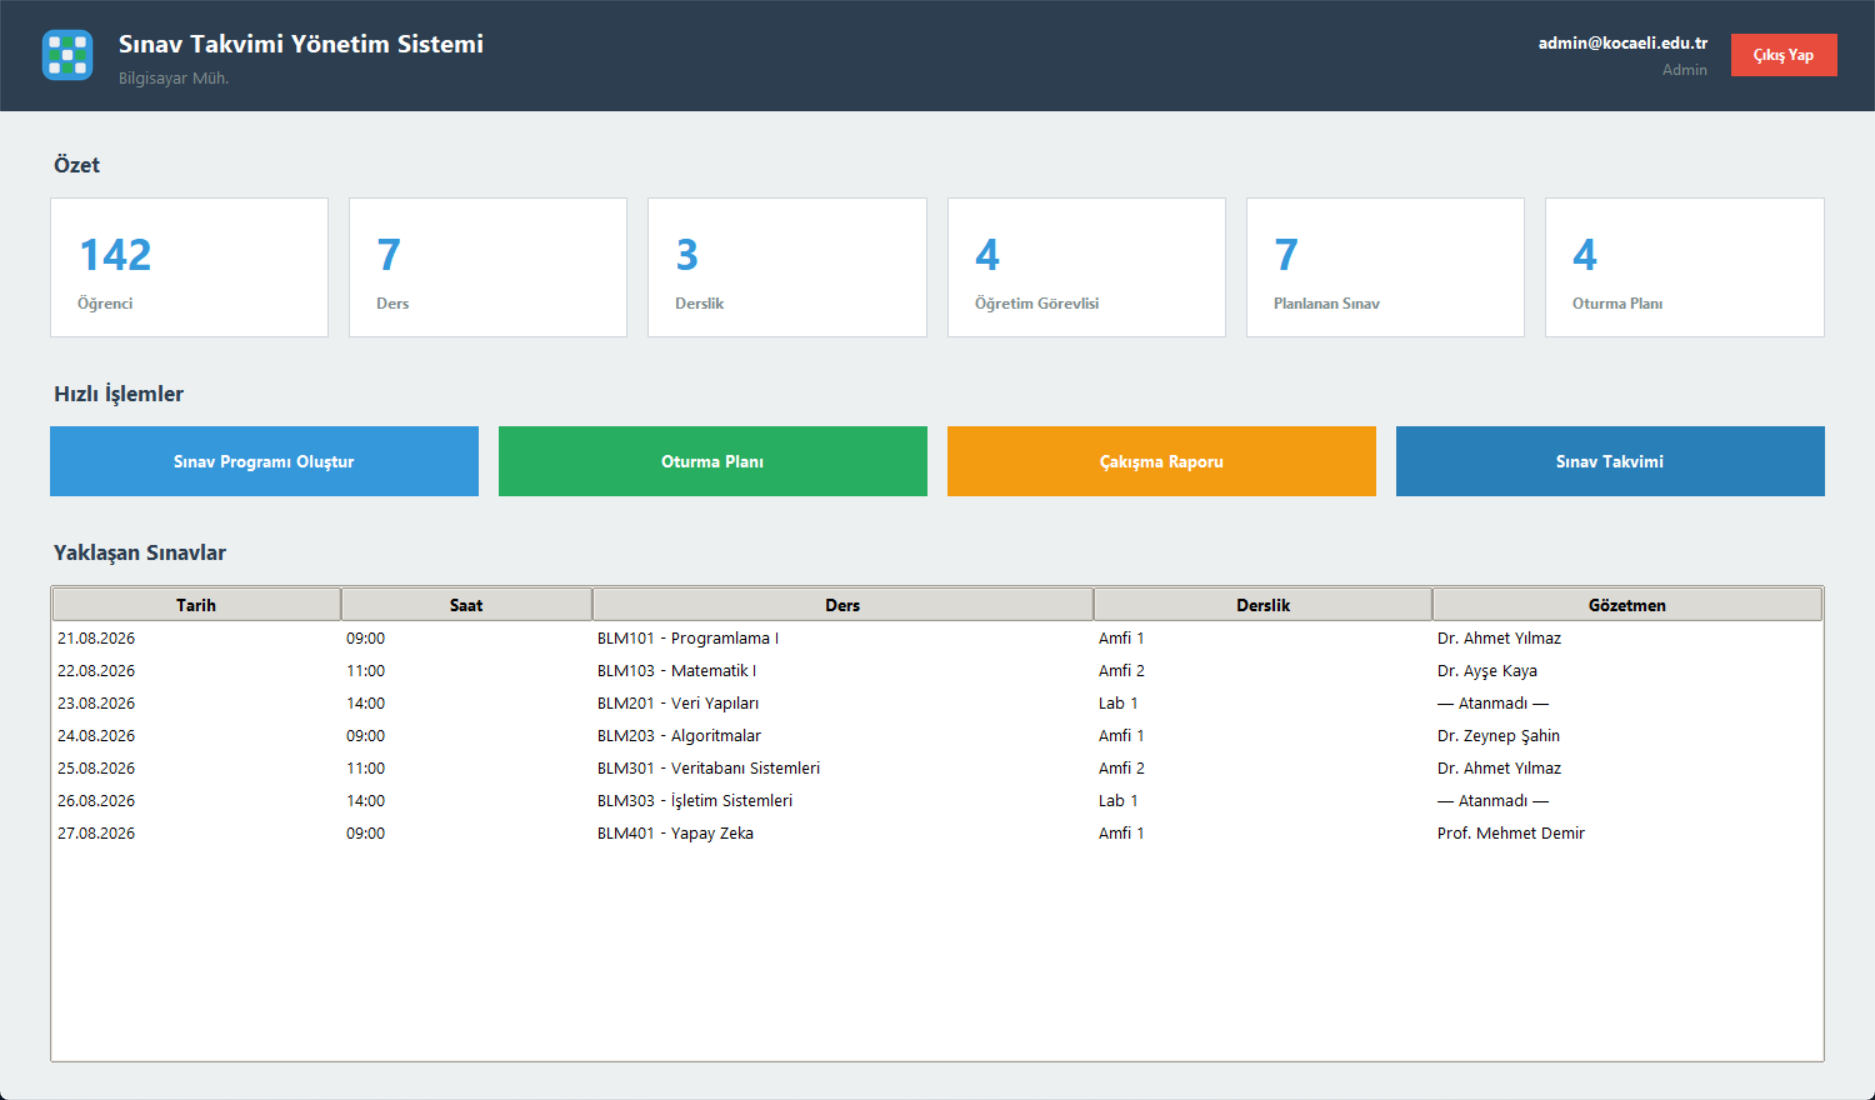
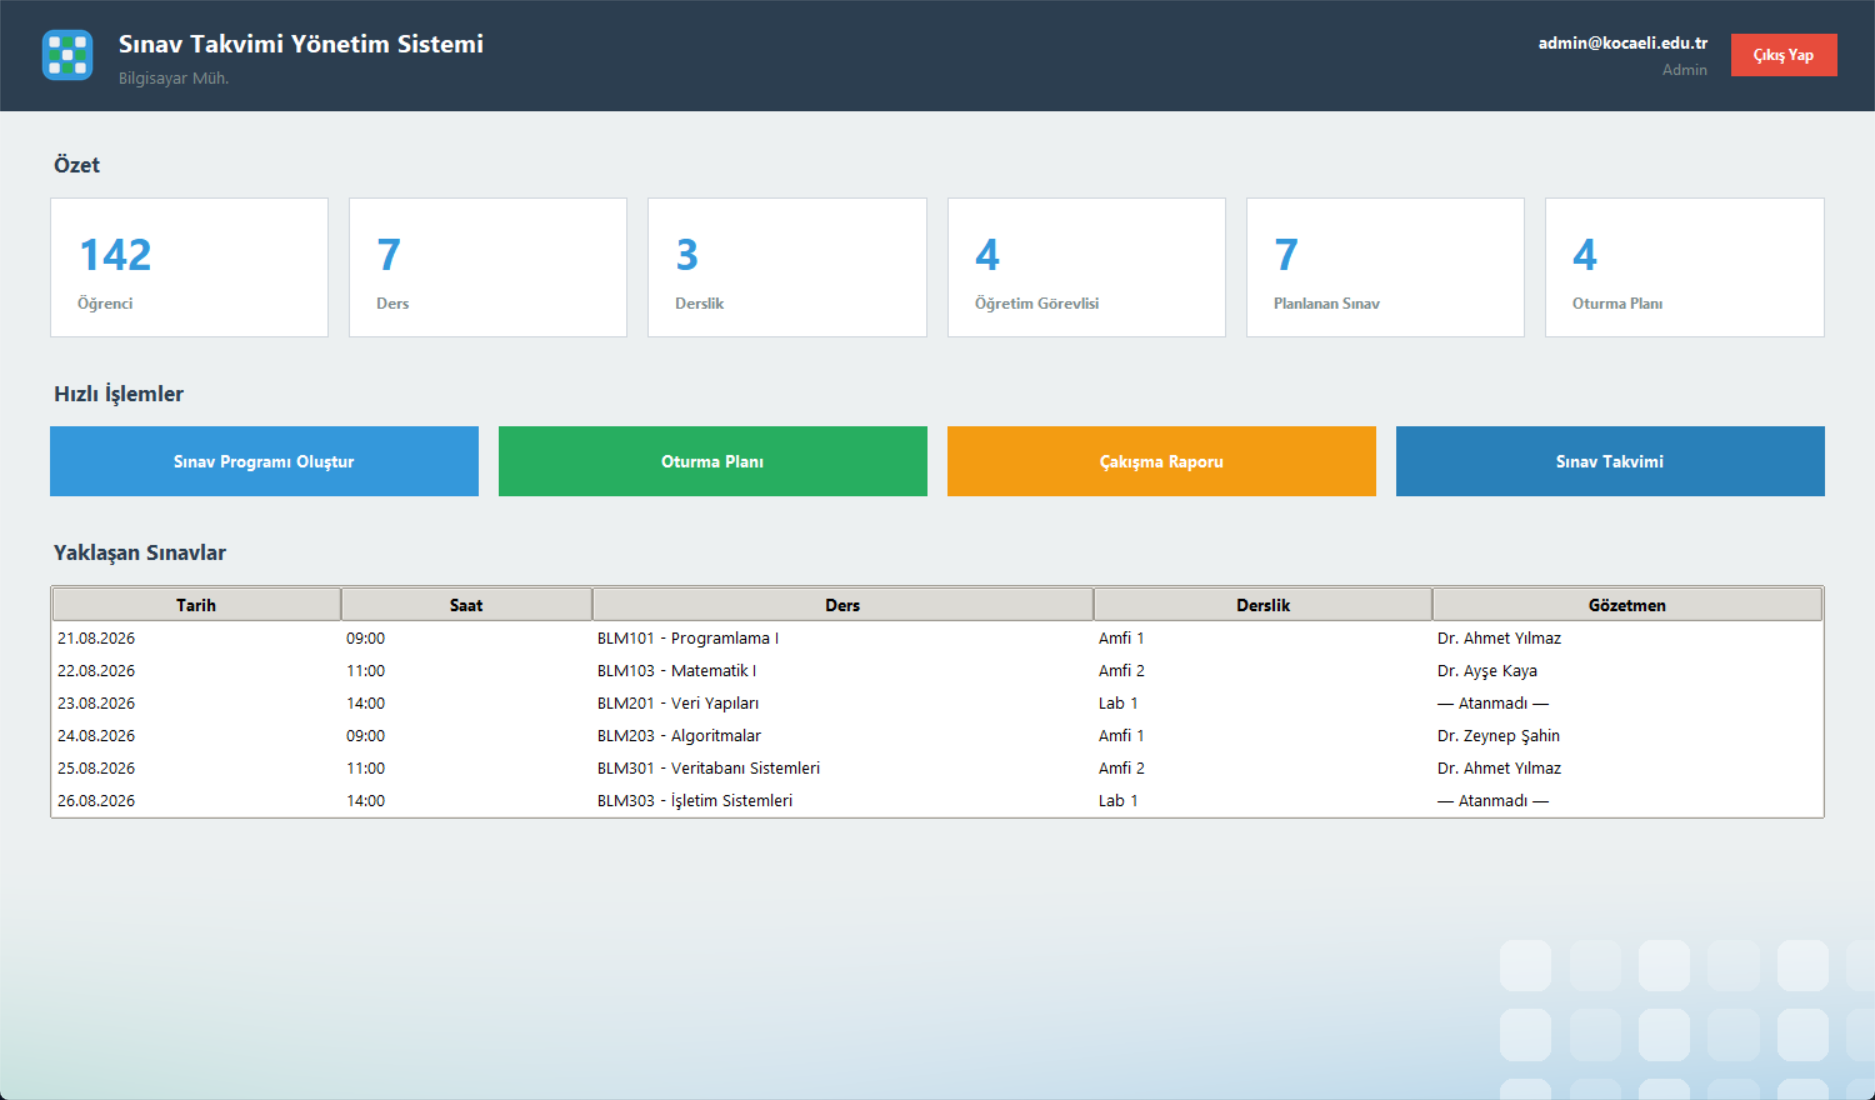
Ana panele desenli arka plan ekle, arka plan mantigini ortakla
- Panelde icerigin altinda kalan bos alan artik duz gri degil: asagi dogru
  koyulasan hafif renk gecisi ve sag alt kosede uygulamanin anti-kopya
  oturma duzenini cagristiran silik koltuk izgarasi var
- Dekor ayri bir katman olarak en sona yerlestiriliyor; boylece icerik ne
  kadar yer kaplarsa kaplasin arada gorunur bir sinir olusmuyor
- Giris ekranindaki responsive arka plan mantigi ui/background.py altinda
  ResponsiveBackground olarak toplandi, panel de ayni yardimciyi kullaniyor
- assets/panel_background.png ile panel arka plani da disaridan degistirilebilir
- Yaklasan sinavlar tablosu 6 satirla sinirlandi (kucuk ekranlarda tasmasin)

diff --git a/sinav_oturma_plani/styles.py b/sinav_oturma_plani/styles.py
@@ -187,6 +187,73 @@ def generate_login_background(width=1600, height=1000):
     return Image.fromarray(arr, mode='RGB')
 
 
+def _blend(arr, mask, color):
+    for i in range(3):
+        arr[:, :, i] = arr[:, :, i] * (1 - mask) + color[i] * mask
+    return arr
+
+
+def generate_panel_background(width, height):
+    """Ana panelde içeriğin altında kalan boşluğu dolduran dekoratif katman:
+    aşağı doğru koyulaşan hafif renk geçişi ve sağ alt köşede sınav oturma
+    düzenini çağrıştıran silik koltuk ızgarası.
+
+    En üst satır COLORS['bg_light'] ile birebir aynı renktedir; böylece
+    üstündeki içerik çerçevesiyle arasında görünür bir geçiş oluşmaz."""
+    base = tuple(int(COLORS['bg_light'][i:i + 2], 16) for i in (1, 3, 5))
+    primary = tuple(int(COLORS['primary'][i:i + 2], 16) for i in (1, 3, 5))
+    success = tuple(int(COLORS['success'][i:i + 2], 16) for i in (1, 3, 5))
+
+    arr = np.zeros((height, width, 3), dtype=np.float32)
+    arr[:, :] = base
+
+    yy, xx = np.ogrid[:height, :width]
+    asagi = (yy / max(height - 1, 1)) ** 1.6
+    saga = np.clip((xx / max(width - 1, 1) - 0.15) / 0.85, 0, 1) ** 1.2
+
+    arr = _blend(arr, asagi * (0.30 + 0.70 * saga) * 0.30, primary)
+    arr = _blend(arr, asagi * np.clip(1 - xx / (width * 0.45), 0, 1) ** 1.5 * 0.12, success)
+    img = Image.fromarray(np.clip(arr, 0, 255).astype(np.uint8), mode='RGB')
+
+    cols, rows = 8, 4
+    cell = min(height * 0.20, width * 0.045)
+    if cell < 8:
+        return img
+
+    layer = Image.new('RGBA', (width, height), (0, 0, 0, 0))
+    draw = ImageDraw.Draw(layer)
+
+    gap = cell * 0.38
+    motif_w = cols * cell + (cols - 1) * gap
+    motif_h = rows * cell + (rows - 1) * gap
+    x0 = width - motif_w * 0.70
+    y0 = height - motif_h * 0.62
+
+    for r in range(rows):
+        for c in range(cols):
+            x = x0 + c * (cell + gap)
+            y = y0 + r * (cell + gap)
+            # Uygulamanın anti-kopya düzenindeki gibi bir sütun dolu, bir sütun boş.
+            dolu = c % 2 == 0
+            renk = (255, 255, 255, 105) if dolu else (255, 255, 255, 45)
+            draw.rounded_rectangle([x, y, x + cell, y + cell], radius=cell * 0.24, fill=renk)
+
+    return Image.alpha_composite(img.convert('RGBA'), layer).convert('RGB')
+
+
+def get_panel_background():
+    """`assets/panel_background.png|jpg` varsa o görseli, yoksa boyuta göre
+    desen üreten fonksiyonun kendisini döndürür."""
+    for ext in ('png', 'jpg', 'jpeg'):
+        path = os.path.join(_ASSETS_DIR, f'panel_background.{ext}')
+        if os.path.isfile(path):
+            try:
+                return Image.open(path).convert('RGB')
+            except Exception as e:
+                print(f"Uyarı: assets/panel_background.{ext} okunamadı: {e}")
+    return generate_panel_background
+
+
 def cover_resize(img, target_w, target_h):
     """Görseli oranını bozmadan hedef boyutu kaplayacak şekilde ölçekleyip ortadan kırpar."""
     src_w, src_h = img.size

diff --git a/sinav_oturma_plani/ui/dashboard.py b/sinav_oturma_plani/ui/dashboard.py
@@ -4,6 +4,7 @@ from datetime import datetime
 from tkinter import ttk
 
 from ..styles import COLORS
+from .background import ResponsiveBackground
 
 
 class DashboardMixin:
@@ -23,6 +24,8 @@ class DashboardMixin:
             self._build_dashboard_cards(body)
             self._build_quick_actions(body)
             self._build_upcoming_exams(body)
+
+        self._build_decoration(body)
 
     def _build_menubar(self):
         menubar = tk.Menu(self.root)
@@ -79,6 +82,17 @@ class DashboardMixin:
                 sinav_menu.add_command(label="Gözetmen Ata", command=self.show_assign_proctor)
                 sinav_menu.add_command(label="Çakışma Raporu", command=self.show_exam_conflicts)
                 sinav_menu.add_command(label="Sınav Takvimi (Genel Görünüm)", command=self.show_exam_calendar)
+
+    def _build_decoration(self, parent):
+        """İçeriğin altında kalan boşluğu dekoratif arka planla doldurur.
+
+        Ayrı bir katman olarak en sona yerleştirilir; böylece içerik ne kadar
+        yer kaplarsa kaplasın dekor tam onun bittiği yerden başlar ve araya
+        görünür bir sınır girmez."""
+        canvas = tk.Canvas(parent, highlightthickness=0, bd=0, bg=COLORS['bg_light'])
+        canvas.pack(fill=tk.BOTH, expand=True)
+        ResponsiveBackground(canvas, self.panel_bg_source)
+        return canvas
 
     def _build_header(self):
         header = tk.Frame(self.root, bg=COLORS['bg_panel'])
@@ -197,7 +211,7 @@ class DashboardMixin:
                       padx=10, pady=16, command=command).grid(row=0, column=i, padx=8, sticky="ew")
             row.grid_columnconfigure(i, weight=1, uniform="action")
 
-    def _build_upcoming_exams(self, parent, limit=8):
+    def _build_upcoming_exams(self, parent, limit=6):
         bugun = datetime.now().replace(hour=0, minute=0, second=0, microsecond=0)
         sp_docs = list(self.db.sinav_programi
                        .find({'bolum_adi': self.current_bolum, 'sinav_tarihi': {'$gte': bugun}})
@@ -220,14 +234,14 @@ class DashboardMixin:
             {'_id': {'$in': [s['gozetmen_id'] for s in sp_docs if s.get('gozetmen_id')]}})}
 
         table_frame = tk.Frame(parent, bg=COLORS['bg_light'])
-        table_frame.pack(fill=tk.BOTH, expand=True, padx=40, pady=(12, 30))
+        table_frame.pack(fill=tk.X, padx=40, pady=(12, 24))
 
         columns = ("Tarih", "Saat", "Ders", "Derslik", "Gözetmen")
         tree = ttk.Treeview(table_frame, columns=columns, show="headings", height=len(sp_docs))
         for col, width in zip(columns, (110, 80, 280, 150, 190)):
             tree.heading(col, text=col)
             tree.column(col, width=width, anchor="w")
-        tree.pack(fill=tk.BOTH, expand=True)
+        tree.pack(fill=tk.X)
 
         for sp in sp_docs:
             ders = ders_map.get(sp['ders_id'])

diff --git a/sinav_oturma_plani/ui/auth.py b/sinav_oturma_plani/ui/auth.py
@@ -3,10 +3,10 @@ import re
 import tkinter as tk
 from tkinter import ttk, messagebox
 
-from PIL import ImageTk
 from pymongo.errors import DuplicateKeyError, PyMongoError
 
-from ..styles import COLORS, cover_resize, hash_password, verify_password, is_bcrypt_hash
+from ..styles import COLORS, hash_password, verify_password, is_bcrypt_hash
+from .background import ResponsiveBackground
 
 EMAIL_PATTERN = re.compile(r"^[^@\s]+@[^@\s]+\.[^@\s]+$")
 
@@ -21,7 +21,8 @@ class AuthMixin:
         canvas = tk.Canvas(self.root, highlightthickness=0, bd=0, bg=COLORS['bg_dark'])
         canvas.pack(fill=tk.BOTH, expand=True)
 
-        bg_item = canvas.create_image(0, 0, anchor="nw")
+        ResponsiveBackground(canvas, self.login_bg_source)
+
         icon_item = canvas.create_image(0, 0, image=self.login_icon_img, anchor="n")
         title_item = canvas.create_text(0, 0, text="Sınav Takvimi Yönetim Sistemi",
                                          font=("Segoe UI", 22, "bold"),
@@ -31,13 +32,6 @@ class AuthMixin:
 
         form_frame = tk.Frame(canvas, bg=COLORS['bg_dark'], padx=45, pady=35)
         form_item = canvas.create_window(0, 0, window=form_frame, anchor="n")
-
-        state = {'size': None, 'job': None}
-
-        def draw_background(w, h):
-            state['job'] = None
-            self._auth_bg_img = ImageTk.PhotoImage(cover_resize(self.login_bg_source, w, h))
-            canvas.itemconfig(bg_item, image=self._auth_bg_img)
 
         def layout(_event=None):
             w, h = canvas.winfo_width(), canvas.winfo_height()
@@ -53,13 +47,7 @@ class AuthMixin:
             canvas.coords(subtitle_item, cx, top + 200)
             canvas.coords(form_item, cx, top + 235)
 
-            if state['size'] != (w, h):
-                state['size'] = (w, h)
-                if state['job'] is not None:
-                    canvas.after_cancel(state['job'])
-                state['job'] = canvas.after(60, lambda: draw_background(w, h))
-
-        canvas.bind("<Configure>", layout)
+        canvas.bind("<Configure>", layout, add="+")
         self.root.after(0, layout)
         return form_frame
 

diff --git a/sinav_oturma_plani/ui/background.py b/sinav_oturma_plani/ui/background.py
@@ -1,0 +1,46 @@
+"""Pencere boyutuyla birlikte ölçeklenen Canvas arka planı."""
+from PIL import ImageTk
+
+from ..styles import cover_resize
+
+
+class ResponsiveBackground:
+    """Bir Canvas'a, pencere yeniden boyutlandıkça tazelenen arka plan bağlar.
+
+    `source` ya bir PIL görselidir (oranı bozulmadan kırpılarak kaplanır) ya da
+    `(genislik, yukseklik) -> PIL.Image` imzalı bir üreteç fonksiyonudur.
+    Yeniden çizim, sürükleyerek boyutlandırma sırasında sürekli tetiklenmesin
+    diye kısa bir gecikmeyle sıraya alınır."""
+
+    REDRAW_DELAY_MS = 60
+
+    def __init__(self, canvas, source):
+        self.canvas = canvas
+        self.source = source
+        self.item = canvas.create_image(0, 0, anchor="nw")
+        self._size = None
+        self._job = None
+        self._photo = None
+        canvas.bind("<Configure>", self._on_configure, add="+")
+        canvas.after(0, self._on_configure)
+
+    def _render(self, width, height):
+        if callable(self.source):
+            return self.source(width, height)
+        return cover_resize(self.source, width, height)
+
+    def _draw(self, width, height):
+        self._job = None
+        self._photo = ImageTk.PhotoImage(self._render(width, height))
+        self.canvas.itemconfig(self.item, image=self._photo)
+
+    def _on_configure(self, _event=None):
+        width, height = self.canvas.winfo_width(), self.canvas.winfo_height()
+        if width < 2 or height < 2 or self._size == (width, height):
+            return
+
+        self._size = (width, height)
+        if self._job is not None:
+            self.canvas.after_cancel(self._job)
+        self._job = self.canvas.after(self.REDRAW_DELAY_MS,
+                                       lambda: self._draw(width, height))

diff --git a/sinav_oturma_plani/app.py b/sinav_oturma_plani/app.py
@@ -7,7 +7,7 @@ from datetime import datetime
 from tkinter import ttk, messagebox
 from PIL import Image, ImageTk
 
-from .styles import configure_styles, get_app_icon, get_login_background
+from .styles import configure_styles, get_app_icon, get_login_background, get_panel_background
 from .database import DatabaseManager
 from .ui.auth import AuthMixin
 from .ui.dashboard import DashboardMixin
@@ -38,6 +38,7 @@ class SinavTakvimiApp(AuthMixin, DashboardMixin, InstructorMixin, ClassroomMixin
         self.login_icon_img = ImageTk.PhotoImage(base_icon.resize((150, 150), Image.LANCZOS))
         self.root.iconphoto(True, self.app_icon_img)
         self.login_bg_source = get_login_background()
+        self.panel_bg_source = get_panel_background()
 
         self.db = DatabaseManager()
         self.current_user = None

diff --git a/assets/README.md b/assets/README.md
@@ -6,9 +6,6 @@ programatik üretilen varsayılan görsel kullanılır.
 
 | Dosya adı                | Boyut (önerilen) | Açıklama |
 |--------------------------|-------------------|----------|
-| `login_background.png`   | 1200 x 700 px     | Giriş ekranının arka planı. Farklı bir en-boy oranında bir görsel koyarsanız, oranı bozulmadan ortadan kırpılarak (CSS `background-size: cover` gibi) yerleştirilir. `.jpg`/`.jpeg` da desteklenir. |
+| `login_background.png`   | 1200 x 700 px     | Giriş ve kayıt ekranlarının arka planı. Farklı bir en-boy oranında bir görsel koyarsanız, oranı bozulmadan ortadan kırpılarak (CSS `background-size: cover` gibi) yerleştirilir. `.jpg`/`.jpeg` da desteklenir. |
+| `panel_background.png`    | 1600 x 1000 px    | Ana panelde içeriğin altında kalan dekoratif alan. Üst kenarı panel zemin rengiyle (`#ecf0f1`) uyumlu bir görsel seçmek, içerikle arasında görünür bir sınır oluşmasını engeller. |
 | `app_icon.png`            | 512 x 512 px, kare | Uygulama/pencere ikonu ve giriş ekranındaki logo. Şeffaf arka plan (PNG alpha kanalı) önerilir. |
-
-Not: Şu an yalnızca **giriş ekranı** özel arka plan görseli destekliyor; ana
-menü/dashboard gibi diğer ekranlar düz renk kullanıyor. Onlar için de görsel
-arka plan istiyorsanız ayrıca belirtin, aynı mekanizma oraya da eklenebilir.
